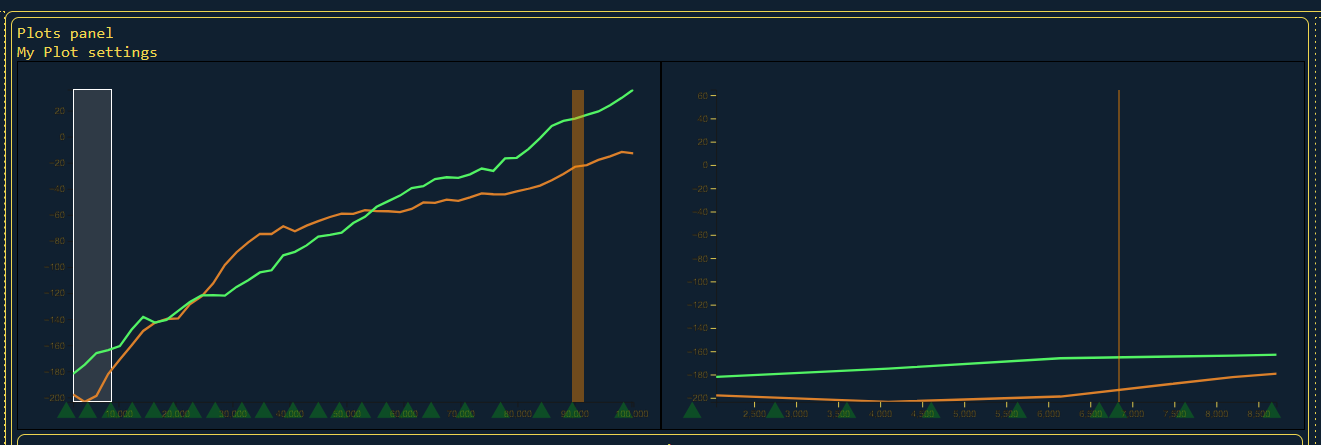
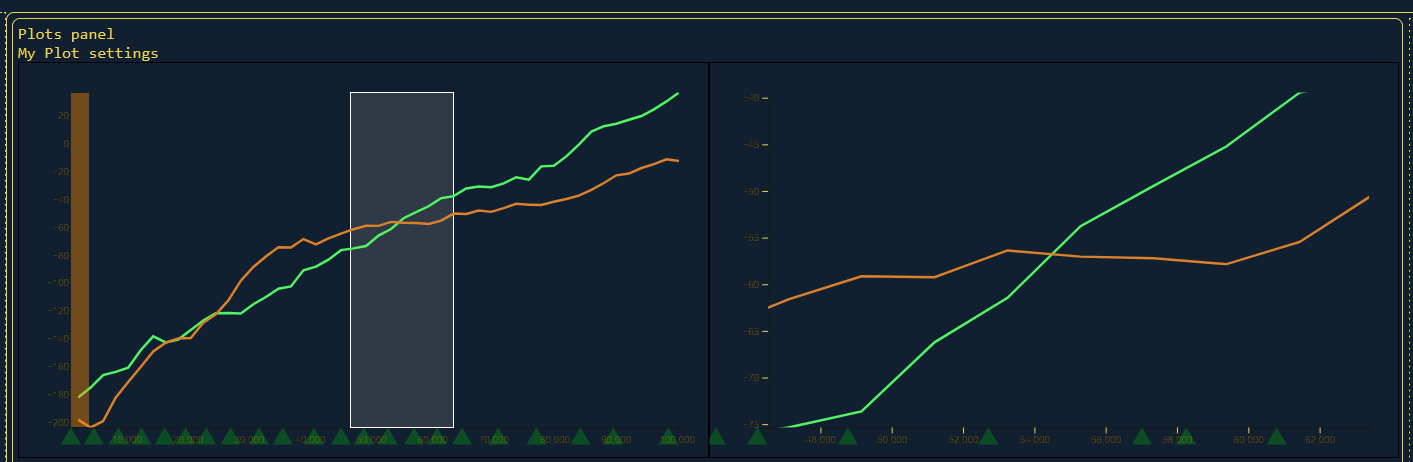
Plot Scaling Bugfixes
-Fixed bug where the y-axis was not properly rescaling on details plot.
    Now it only checks the selected lines and not every line.
-Fixed bug with reset plot where plots were rescaling as if every line
    was selected.
-Removed tb folder from project manager because each simulation handles
    tb logs individually.

diff --git a/src/gymdash/frontend/scripts/utils/viz.js b/src/gymdash/frontend/scripts/utils/viz.js
@@ -469,11 +469,6 @@ const vizUtils = (
                 }
                 // Alter the scales and axes so that they are only based on the
                 // currently selected simulations
-                const asdfasdf =this.extentOfExtents(
-                    Object.values(this.simulations.selected())
-                        .filter((simSel) => simSel.checked())
-                        .map((simSel) => this.extentSteps[simSel.id])
-                );
                 this.scaleX.domain(this.extentOfExtents(
                     Object.values(this.simulations.selected())
                         .filter((simSel) => simSel.checked())
@@ -832,6 +827,7 @@ const vizUtils = (
                 // Rebuild the axes
                 this.resetX();
                 this.resetY();
+                this.updatePlot(this.extentXSelected(), this.rescaleY);
                 // Rebuild the lines
                 this.#refreshLines();
 
@@ -840,6 +836,13 @@ const vizUtils = (
 
             extentX() {
                 return this.extentOfExtents(Object.values(this.extentSteps));
+            }
+            extentXSelected() {
+                return this.extentOfExtents(
+                    Object.values(this.simulations.selected())
+                        .filter(s => Object.hasOwn(this.extentSteps, s.id) && this.extentSteps[s.id][0])
+                        .map(s => this.extentSteps[s.id])
+                );
             }
             extentY() {
                 return this.extentOfExtents(Object.values(this.extentValues));
@@ -896,7 +899,11 @@ const vizUtils = (
                     const endStep   = extentX[1];
                     let extentY = [];
                     // Calculate the Y extent in that same region
-                    for (const line of this.lineSelections()) {
+                    // for (const line of this.lineSelections()) {
+                    for (const simID in this.simulations.selected()) {
+                        if (!Object.hasOwn(this.lines, simID)) { continue; }
+                        if (!this.lines[simID].isValid()) { continue; }
+                        const line = this.lines[simID].selection;
                         // Retrieve range of data based on step extent
                         const data = line.datum();
                         const steps = data.map(d => d.step);

diff --git a/src/gymdash/frontend/index.html b/src/gymdash/frontend/index.html
@@ -157,7 +157,7 @@
     </header>
 
     <div class="setting-bar contrast-box-opp">
-        <div id="setting-bar-title">My Settings Bar</div>
+        <div id="setting-bar-title">Settings</div>
         <div id="setting-bar-content">
             <div class="settings settings-general"></div>
             <div class="settings settings-control"></div>
@@ -289,8 +289,6 @@
         
             <div class="tabcontent" id="tab-analyze">
                 <div class="plots-panel analyze-panel content-panel" id="plots-area">
-                    <p>Plots panel</p>
-                    <div class="plot-settings">My Plot settings</div>
                     <div id="main-plots-panel">
                         <div id="overview-plot-panel"></div>
                         <div id="details-plot-panel"></div>

diff --git a/src/gymdash/frontend/scripts/gymdash.js b/src/gymdash/frontend/scripts/gymdash.js
@@ -1906,6 +1906,8 @@ function onClickMMI(d) {
 function getOrCreatePlotAreaForKey(key) {
     // Split key
     const components = key.split("/");
+    console.log(key);
+    console.log(components);
     // Couldn't split, just put in the default category
     if (components.length == 1) {
         return document.querySelector("#default-plot-key-panel");
@@ -1932,6 +1934,7 @@ function createPlots() {
     mainPlots.splice(0, mainPlots.length);
     allPlots.splice(0, allPlots.length);
     for (const panel of document.querySelectorAll(".plot-key-panel")) {
+        if (panel.id === "default-plot-key-panel") { continue; }
         panel.remove();
     }
     for (const svg of plotArea.querySelectorAll("svg")) {

diff --git a/src/gymdash/backend/project.py b/src/gymdash/backend/project.py
@@ -65,7 +65,6 @@ class ProjectManager:
         return wrapper
 
     ARGS_FILENAME   = "args.pickle"
-    TB_FOLDER       = "tb"
     SIMS_FOLDER     = "sims"
     DB_FOLDER       = "db"
     RES_FOLDER      = "resources"
@@ -133,9 +132,6 @@ class ProjectManager:
     def project_folder():
         return ProjectManager.args.project_dir
     @staticmethod
-    def tb_folder():
-        return os.path.join(ProjectManager.project_folder(), ProjectManager.TB_FOLDER)
-    @staticmethod
     def sims_folder():
         return os.path.join(ProjectManager.project_folder(), ProjectManager.SIMS_FOLDER)
     @staticmethod
@@ -155,7 +151,6 @@ class ProjectManager:
             path = Path(ProjectManager.project_folder())
             path.mkdir(parents=True, exist_ok=True)
             # Sub-dirs
-            os.makedirs(ProjectManager.tb_folder(),     exist_ok=True)
             os.makedirs(ProjectManager.db_folder(),     exist_ok=True)
             os.makedirs(ProjectManager.sims_folder(),   exist_ok=True)
         except Exception as e:
